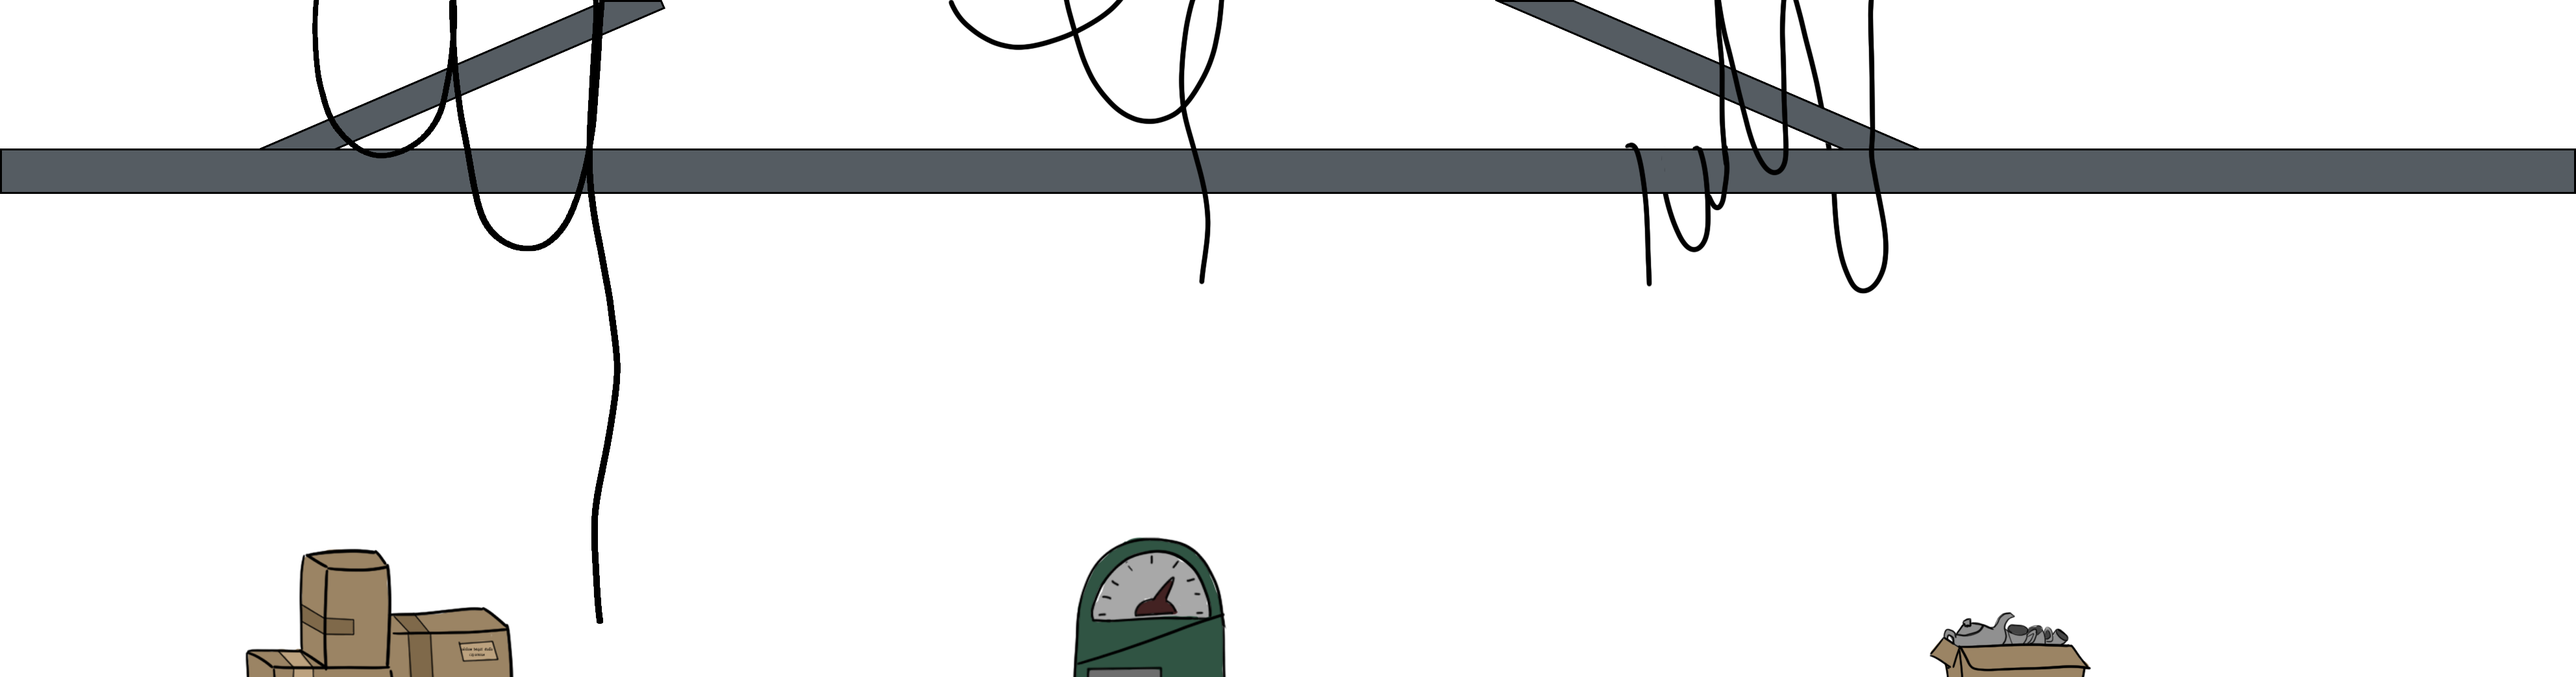
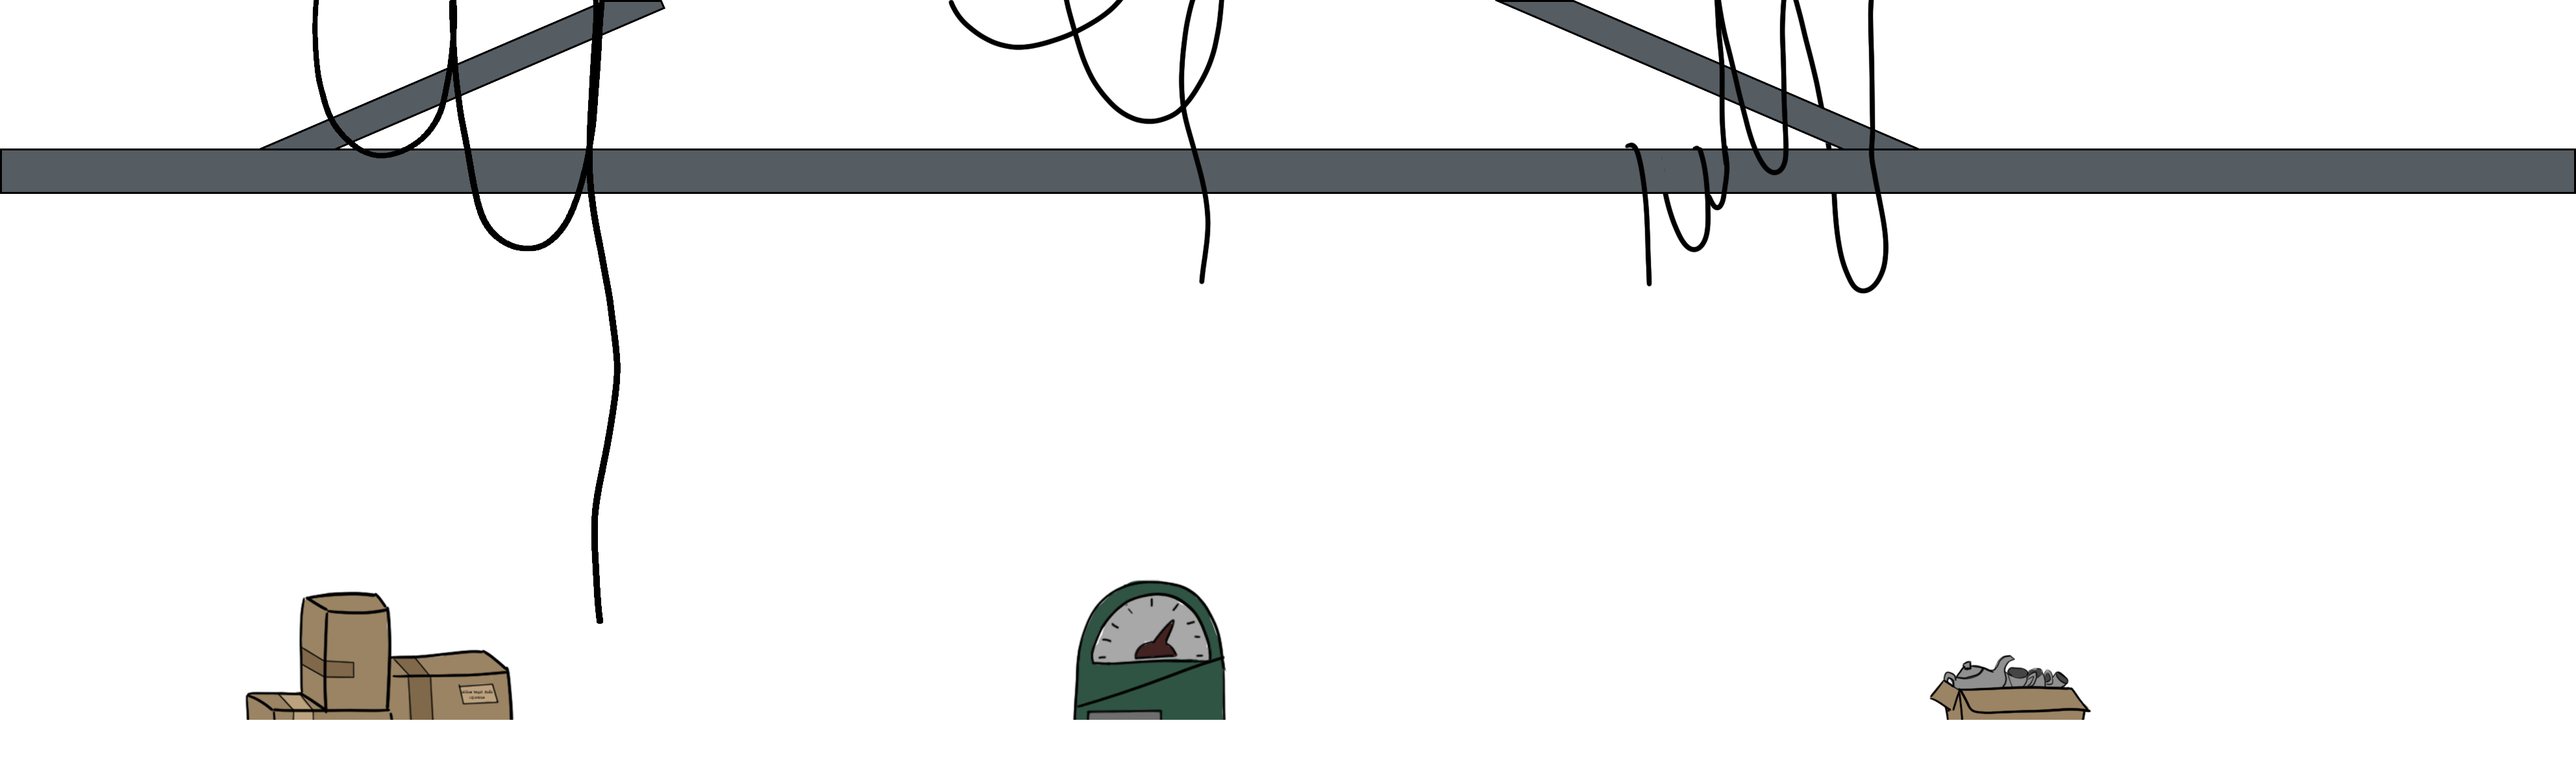
Sorting Drawing Order By Depth

diff --git a/src/gameobjects/Lever.js b/src/gameobjects/Lever.js
@@ -4,6 +4,7 @@ function Lever(scene,x,y,depth,isShadow,xActivable,yActivable){
     this.isShadow = isShadow;
     this.posActivable = new Point(xActivable, yActivable);
     this.collider = new Collider(this,this.pos.x,this.pos.y,this.width,this.height,0,0);
+    this.alreadyActioned = false;
     this.prepareSprite(this.isShadow);
 }
 
@@ -21,14 +22,19 @@ Lever.prototype.prepareSprite = function(isShadow){
 Lever.prototype.action = function(){
     console.log(this.posActivable);
     let activable = physics.instancePlace(null,this.posActivable.x, this.posActivable.y, "Bridge");
-    if(activable){
+    if(activable && !this.alreadyActioned){
         activable.perform();
+        this.alreadyActioned = true;
         if(!this.isShadow){
             this.sprite.destroy();
             this.sprite = new Sprite(this.scene,"leverOn",0,0,0,0,Game.TILE_SIZE/2,Game.TILE_SIZE/2);
+            let shadowOther =  physics.instancePlace(null,this.pos.x, this.pos.y - Game.TILE_SIZE*this.scene.shadowLevel, "Lever");
+            shadowOther.action();
         }else{
             this.sprite.destroy();
             this.sprite = new Sprite(this.scene,"leverOnShadow",0,0,0,0,Game.TILE_SIZE/2,Game.TILE_SIZE/2);
+            let colorOther =  physics.instancePlace(null,this.pos.x, this.pos.y + Game.TILE_SIZE*this.scene.shadowLevel, "Lever");
+            colorOther.action();
         }
         
         console.log("he activado el puente");

diff --git a/src/ObjectFactory.js b/src/ObjectFactory.js
@@ -34,9 +34,9 @@ ObjectFactory.prototype.createProductFromColor = function (color, x, y) {
         //objeto palanca
         if (color.b == 64) {
             if (color.r % 5 == 1) color.r--;
-            if (color.g % 5 == 1) color.g--;
-            //console.log(color.r);
-            //console.log(color.g);
+            if (color.g % 5 == 4) color.g--;
+            console.log(color.r);
+            console.log(color.g);
             new Lever(this.scene, x, y, 0, false, color.r * Game.TILE_SIZE, color.g * Game.TILE_SIZE);
             new Lever(this.scene, x, y - Game.TILE_SIZE * this.scene.shadowLevel, 0, true, color.r * Game.TILE_SIZE, color.g * Game.TILE_SIZE);
             //objeto puente levadizo
@@ -44,9 +44,11 @@ ObjectFactory.prototype.createProductFromColor = function (color, x, y) {
             if (color.b == 255) {
                 new Bridge(this.scene, x, y, 0, false, -1);
                 new Bridge(this.scene, x, y - Game.TILE_SIZE * this.scene.shadowLevel, 1, true, -1);
+                
             } else if (color.b == 128) {
                 new Bridge(this.scene, x, y, 0, false, 1);
                 new Bridge(this.scene, x, y - Game.TILE_SIZE * this.scene.shadowLevel, 1, true, 1);
+                
             }
             //objeto plataforma móvil     
         } else if (color.g == 64) {

diff --git a/src/guisets/EndLevelMenuGUI.js b/src/guisets/EndLevelMenuGUI.js
@@ -15,7 +15,7 @@ EndLevelMenuGUI.prototype.create = function(){
     //boton de repetir
     let buttonRestartSprite = new GUIImage(this.scene,"botonReempezar",50,50,0,0,114,52,0);
     let restartLevel = function(){
-        Game.changeScene(new TestScene(60 * Game.TILE_SIZE,20 * Game.TILE_SIZE));
+        Game.changeScene(new TestScene(60 * Game.TILE_SIZE,18 * Game.TILE_SIZE));
     };
     let buttonRestart = new Button(this.scene,viewportMiddleX - 200,viewportDown,0,buttonRestartSprite, restartLevel);
 
@@ -30,7 +30,7 @@ EndLevelMenuGUI.prototype.create = function(){
     //boton de siguientes
     let buttonNextSprite = new GUIImage(this.scene,"botonContinuar",50,50,0,0,114,52,0);
     let goNextLevel = function(){
-        Game.changeScene(new TestScene(60 * Game.TILE_SIZE,20 * Game.TILE_SIZE));
+        Game.changeScene(new TestScene(60 * Game.TILE_SIZE,18 * Game.TILE_SIZE));
     };
     let buttonNext = new Button(this.scene,viewportMiddleX + 200 - buttonNextSprite.width,viewportDown,0,buttonNextSprite, goNextLevel);
 

diff --git a/src/scenes/TestScene.js b/src/scenes/TestScene.js
@@ -74,11 +74,11 @@ TestScene.prototype.create = function () {
     levelParser.parseObjects(this, "objectLayer");
 
     this.gui = new InGameGUI(this);
-    let bg = new Background(this, "bg1", -Game.TILE_SIZE / 2 - 1, 0, 0);
-    let bg2 = new Background(this, "bg2", 0, Game.TILE_SIZE * 4, -1);
-    let bgPass = new Background(this, "bgPass", 0, -Game.TILE_SIZE, 0);
+    let bg = new Background(this, "bg1", -Game.TILE_SIZE / 2 - 1, -Game.TILE_SIZE*2, 0);
+    let bg2 = new Background(this, "bg2", 0, Game.TILE_SIZE * 2 , -1);
+    let bgPass = new Background(this, "bgPass", 0, -Game.TILE_SIZE*3, 0);
 
-    let fg = new Foreground(this, "fg1", 0, Game.TILE_SIZE, 0);
+    let fg = new Foreground(this, "fg1", 0, -Game.TILE_SIZE * 2, 0);
 
     //DESDOBLE SOMBRA/COLOR
     let colorPlayer = this.objControl.colorPlayer;

diff --git a/src/guisets/InGameOptionsMenuGUI.js b/src/guisets/InGameOptionsMenuGUI.js
@@ -73,7 +73,7 @@ InGameOptionsMenuGUI.prototype.create = function(){
     //boton de repetir
     let buttonRestartSprite = new GUIImage(this.scene,"botonReempezar",50,50,0,0,114,52,0);
     let restartLevel = function(){
-        Game.changeScene(new TestScene(60 * Game.TILE_SIZE,20 * Game.TILE_SIZE));
+        Game.changeScene(new TestScene(60 * Game.TILE_SIZE,18 * Game.TILE_SIZE));
         //this.scene.restart();
     };
     let buttonRestart = new Button(this.scene,viewportMiddleX - Game.TILE_SIZE + 25,viewportMiddleY,0,buttonRestartSprite, restartLevel);

diff --git a/src/guisets/ConfirmLevelGUI.js b/src/guisets/ConfirmLevelGUI.js
@@ -19,7 +19,7 @@ ConfirmLevelGUI.prototype.create = function(){
     //boton para confirmar
     let buttonPlaySprite = new GUIImage(this.scene,"button",50,50,0,0,114,52,0);
     let playLevel = function(){
-        Game.changeScene(new TestScene(60 * Game.TILE_SIZE,20 * Game.TILE_SIZE));
+        Game.changeScene(new TestScene(60 * Game.TILE_SIZE,18 * Game.TILE_SIZE));
     };
     let buttonPlay = new Button(this.scene,viewportMiddleX - buttonPlaySprite.width/2 + 40,360,0,buttonPlaySprite, playLevel,i18n.translate(Game.lang, "play"),font);
 

diff --git a/src/guisets/GameOverGUI.js b/src/guisets/GameOverGUI.js
@@ -16,7 +16,7 @@ GameOverGUI.prototype.create = function(){
     //boton de repetir
     let buttonRestartSprite = new GUIImage(this.scene,"botonReempezar",50,50,0,0,114,52,0);
     let restartLevel = function(){
-        Game.changeScene(new TestScene(60 * Game.TILE_SIZE,20 * Game.TILE_SIZE));
+        Game.changeScene(new TestScene(60 * Game.TILE_SIZE,18 * Game.TILE_SIZE));
     };
     let buttonRestart = new Button(this.scene,viewportMiddleX - buttonRestartSprite.width -Game.TILE_SIZE,viewportDown,0,buttonRestartSprite, restartLevel);
 

diff --git a/src/Scene.js b/src/Scene.js
@@ -117,6 +117,7 @@ Scene.prototype.draw = function(){
         let frameLayerShadow = this.camera.getFrameLayer(this.tileLayer[0]);
         frameLayerShadow.draw(this.camera);
         
+        this.spriteObjectsLayer.sortByDepth();
         this.spriteObjectsLayer.draw(this.camera);
 
         let frameLayerColor = this.camera.getFrameLayer(this.tileLayer[1]);

diff --git a/src/Layer.js b/src/Layer.js
@@ -22,3 +22,16 @@ Layer.prototype.draw = function(camera){
     }
 }
 
+Layer.prototype.sortByDepth = function(){
+    this.elements.sort(function(a,b){
+        if(a.depth > b.depth){
+            return -1;
+        }else if(a.depth < b.depth){
+            return 1;
+        }else{
+            return 0;
+        }
+    });
+}
+
+

diff --git a/src/GameObject.js b/src/GameObject.js
@@ -25,6 +25,7 @@ ningun metodo draw ya que de eso ya se encarga el sprite*/
 GameObject.prototype.update = function(){
     if(this.sprite){
         this.sprite.pos = this.pos;
+        this.sprite.depth = this.depth;
     }
 }
 

diff --git a/src/gameobjects/Bridge.js b/src/gameobjects/Bridge.js
@@ -81,5 +81,5 @@ Bridge.prototype.perform = function () {
 }
 
 Bridge.prototype.update = function () {
-
+    this.sprite.depth = this.depth;
 }
